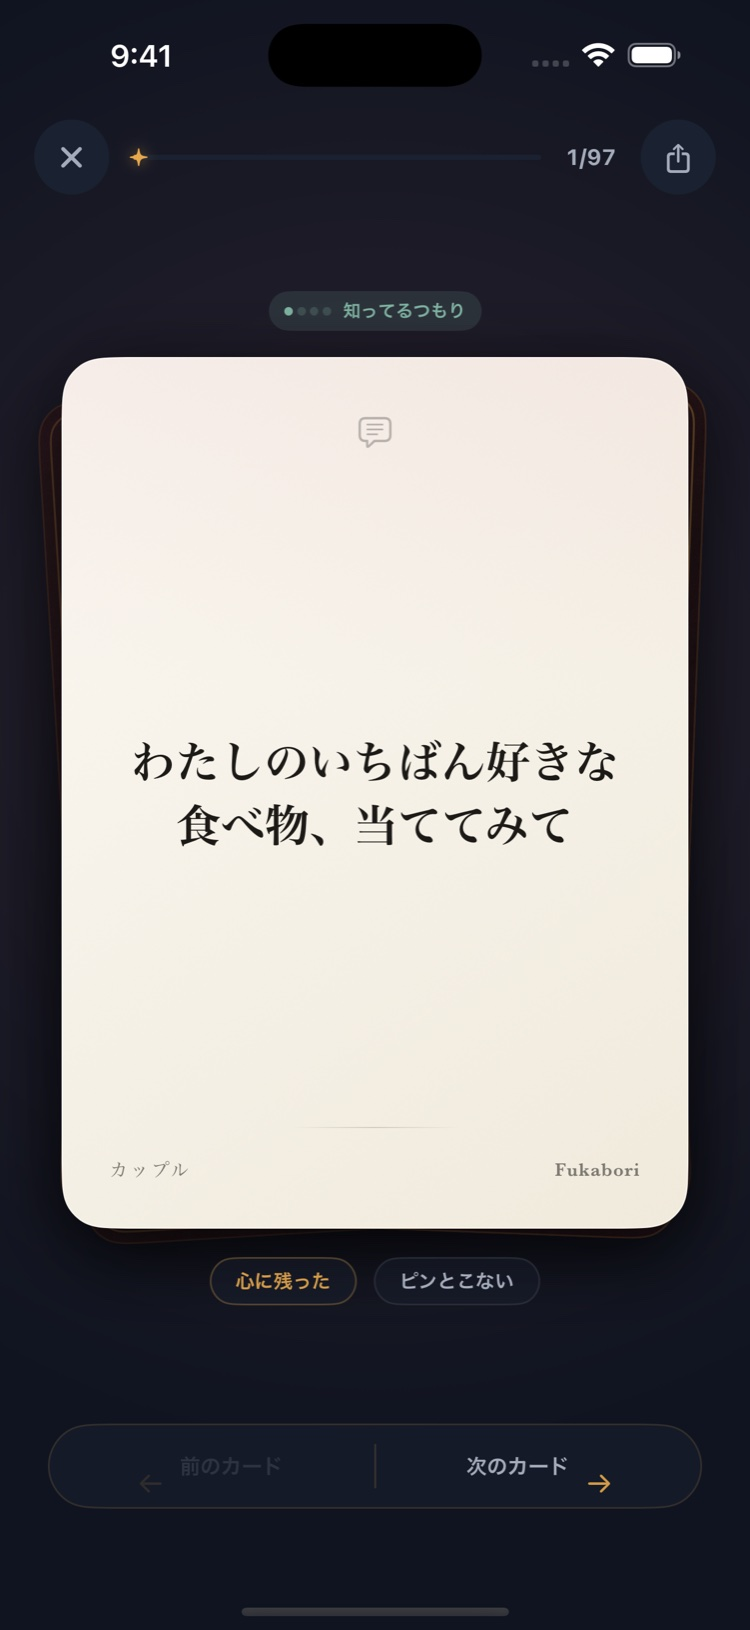
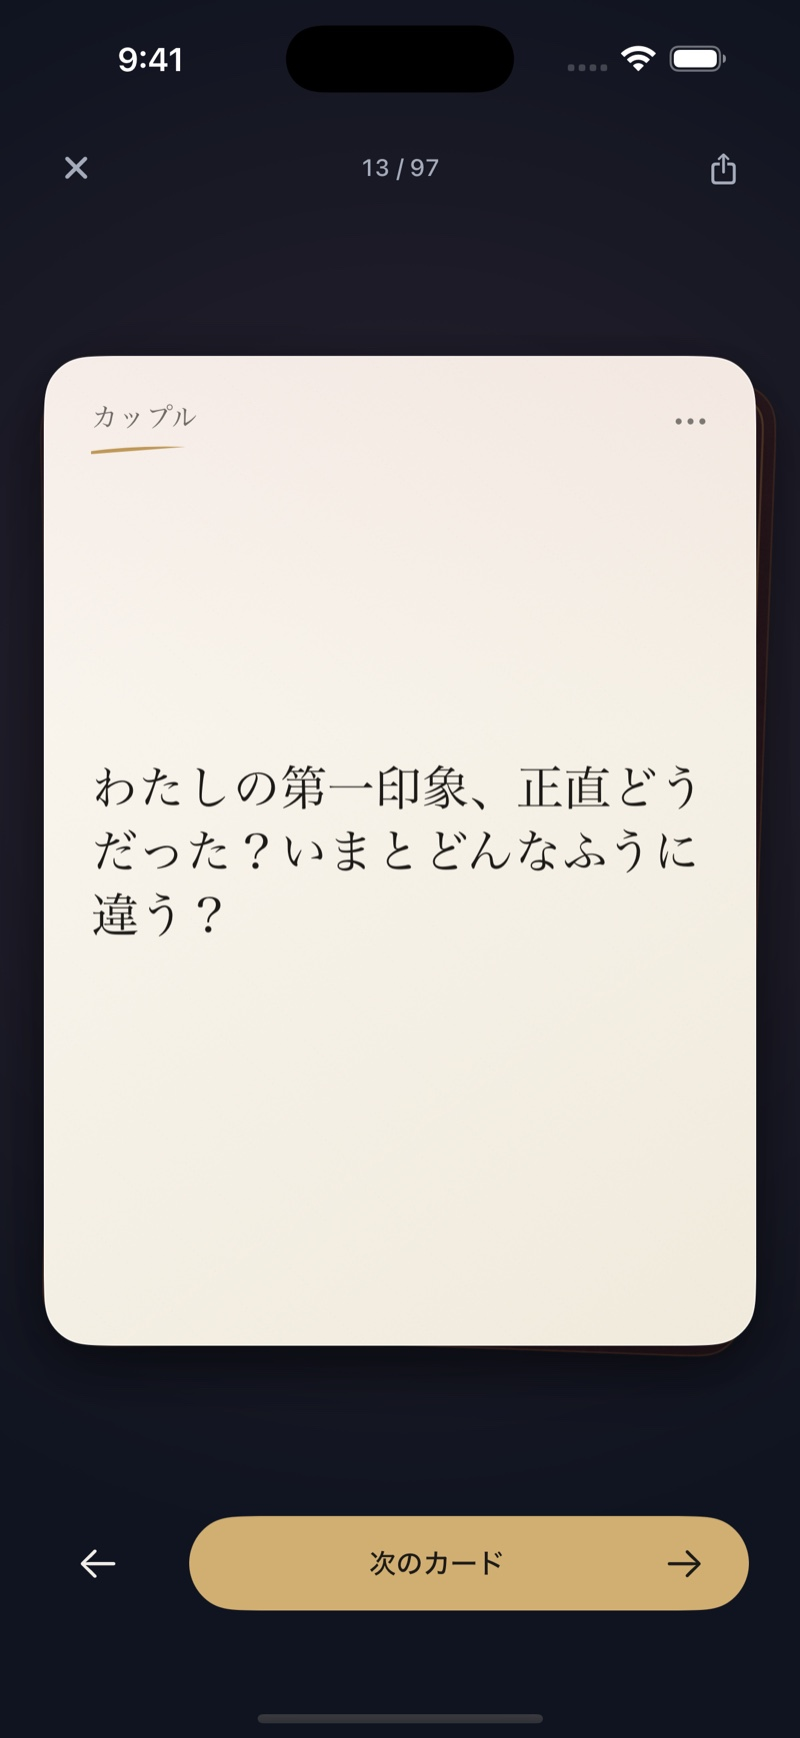
Align landing page cards with paper question UI (#9)

diff --git a/index.html b/index.html
@@ -44,10 +44,10 @@
 </script>
 </head>
 <body><a class="skip" href="#main">本文へ移動</a><div class="reading-progress" aria-hidden="true"></div><header class="nav"><a class="brand" href="#">fukabori<span>フカボリ</span></a><nav aria-label="メインメニュー"><a href="#journey">質問を見る</a><a href="#decks">デッキを選ぶ</a></nav><a class="store-link" href="https://apps.apple.com/jp/app/id6794950952" data-store-cta="nav">App Storeで入手 <span aria-hidden="true">↗</span></a></header>
-<main id="main"><section class="hero" id="hero"><div class="ambient" aria-hidden="true"></div><canvas id="universe" aria-hidden="true"></canvas><div class="hero-copy"><h1><span>いつもと違う話、</span><span><em>してみない？</em></span></h1><p class="lead">恋人と過ごす休日に、友達との集まりに。<br>何を話そうか迷ったら、カードを1枚。</p><a class="pill" href="#journey">どんな質問がある？ <span aria-hidden="true">↓</span></a></div><div class="hero-object"><div class="hero-stack" id="hero-stack"><img class="stack-card stack-one" src="img/deck/parents_v1.webp" alt="" width="480" height="720"><img class="stack-card stack-two" src="img/deck/couple_v1.webp" alt="" width="480" height="720"><button class="hero-flip" id="hero-flip" type="button" aria-label="カードをめくって質問を見る" aria-pressed="false"><span class="flipper"><span class="card-face face-back"><img src="img/cards/couple_back.webp" alt="カップルデッキのカード裏面" width="966" height="1344"></span><span class="card-face face-front"><span class="card-label">01 / カップル</span><span class="card-question">わたしのいちばん<br>好きな食べ物、<br>当ててみて</span><span class="card-sign">fukabori <span>☽</span></span></span></span></button></div><button class="preview-card" id="preview-card" type="button">カードをめくる <span aria-hidden="true">↻</span></button></div><div class="hero-bottom"><button id="motion-toggle" type="button" aria-pressed="false">動きを止める <span aria-hidden="true">Ⅱ</span></button></div></section>
+<main id="main"><section class="hero" id="hero"><div class="ambient" aria-hidden="true"></div><canvas id="universe" aria-hidden="true"></canvas><div class="hero-copy"><h1><span>いつもと違う話、</span><span><em>してみない？</em></span></h1><p class="lead">恋人と過ごす休日に、友達との集まりに。<br>何を話そうか迷ったら、カードを1枚。</p><a class="pill" href="#journey">どんな質問がある？ <span aria-hidden="true">↓</span></a></div><div class="hero-object"><div class="hero-stack" id="hero-stack"><img class="stack-card stack-one" src="img/deck/parents_v1.webp" alt="" width="480" height="720"><img class="stack-card stack-two" src="img/deck/couple_v1.webp" alt="" width="480" height="720"><button class="hero-flip" id="hero-flip" type="button" aria-label="カードをめくって質問を見る" aria-pressed="false"><span class="flipper"><span class="card-face face-back"><img src="img/cards/couple_back.webp" alt="カップルデッキのカード裏面" width="966" height="1344"></span><span class="card-face face-front"><span class="card-label">カップル</span><span class="card-question">わたしの第一印象、正直どうだった？いまとどんなふうに違う？</span></span></span></button></div><button class="preview-card" id="preview-card" type="button">カードをめくる <span aria-hidden="true">↻</span></button></div><div class="hero-bottom"><button id="motion-toggle" type="button" aria-pressed="false">動きを止める <span aria-hidden="true">Ⅱ</span></button></div></section>
 <section class="opening section"><h2 class="reveal-lines">よく会う相手にも、<br><span>聞いたことのない話がある。</span></h2><p>好きな食べ物。子どもの頃のこと。最近うれしかったこと。<br>自分では思いつかなかった質問から、<br>いつもと違う話をしてみませんか。</p></section>
 <section class="journey" id="journey" aria-label="3つの質問の例"><div class="journey-stage"><div class="journey-line" aria-hidden="true"></div><div class="chapter-copy"><article class="chapter active"><h2>まずは、<br><em>当てっこから。</em></h2><p>当たっても、外れても。<br>「なんでそれだと思った？」と聞くと、<br>そこからまた話が続きます。</p></article><article class="chapter"><h2>昔の話、<br><em>聞いたことある？</em></h2><p>どんな子だった？ 何に夢中だった？<br>いまの姿からは想像できない話も、<br>聞けるかもしれません。</p></article><article class="chapter"><h2>そういえば、<br><em>あのときね。</em></h2><p>うれしかったことや、助かったこと。<br>普段はわざわざ言わない話も、<br>質問に答えるつもりで。</p></article></div><div class="story-card-wrap"><div class="story-card" id="story-card"><span class="card-label" id="story-card-label">01 / 好きなもの</span><p class="card-question" id="story-question">わたしのいちばん好きな食べ物、当ててみて</p><span class="card-sign">fukabori <span>☽</span></span></div></div><div class="journey-bottom"><div class="chapter-controls" aria-label="会話の場面を選ぶ"><button type="button" data-chapter="0" aria-pressed="true"><span>好きなもの</span></button><button type="button" data-chapter="1" aria-pressed="false"><span>子どもの頃</span></button><button type="button" data-chapter="2" aria-pressed="false"><span>最近のこと</span></button></div></div></div></section>
 <section class="interlude section"><h2>答えにくい質問は、<br><em>パスしてOK。</em></h2><p>全部に答えなくても大丈夫。<br>話が盛り上がったら、次のカードはあとで。</p></section>
 <section class="collection section" id="decks"><div class="section-heading"><div><h2>誰と使うかで、<br>質問もいろいろ。</h2></div><p>恋人や友達、家族と話すときにも。<br>ひとりで考えを整理したいときにも。</p></div><div class="deck-selectors" role="group" aria-label="相手別の質問"><button type="button" class="deck-choice active" data-deck="couple_v1" aria-pressed="true"><span class="deck-visual"><img src="img/deck/couple_v1.webp" alt="" width="480" height="720" loading="lazy"></span><span class="deck-caption">恋人と<span class="choice-arrow" aria-hidden="true">↗</span></span></button><button type="button" class="deck-choice" data-deck="friends_v1" aria-pressed="false"><span class="deck-visual"><img src="img/deck/friends_v1.webp" alt="" width="480" height="720" loading="lazy"></span><span class="deck-caption">友達と<span class="choice-arrow" aria-hidden="true">↗</span></span></button><button type="button" class="deck-choice" data-deck="parents_v1" aria-pressed="false"><span class="deck-visual"><img src="img/deck/parents_v1.webp" alt="" width="480" height="720" loading="lazy"></span><span class="deck-caption">家族と<span class="choice-arrow" aria-hidden="true">↗</span></span></button><button type="button" class="deck-choice" data-deck="self_v1" aria-pressed="false"><span class="deck-visual"><img src="img/deck/self_v1.webp" alt="" width="480" height="720" loading="lazy"></span><span class="deck-caption">ひとりで<span class="choice-arrow" aria-hidden="true">↗</span></span></button></div><div class="question-sampler"><div><p class="eyebrow" id="sample-label">カップル / 01</p><p id="sample-question" aria-live="polite" aria-atomic="true">わたしのいちばん好きな食べ物、当ててみて</p></div><button type="button" id="next-question" aria-label="次の質問をめくる">次の質問 <span aria-hidden="true">↗</span></button></div></section>
-<section class="how section"><div class="how-intro"><h2>スマホひとつで、<br><em>すぐに遊べる。</em></h2><p>アカウント登録はいりません。<br>デッキを選んだら、そのまま始められます。</p></div><div class="phone-stage"><img src="img/app/screen_card.jpg" alt="フカボリの質問カード画面" width="800" height="1738" loading="lazy"></div><ol class="steps"><li><span>01</span><h3>デッキを選ぶ。</h3><p>相手と気分に合わせて。</p></li><li><span>02</span><h3>カードをめくる。</h3><p>出てきた質問を読んでみる。</p></li><li><span>03</span><h3>順番に答える。</h3><p>気になった答えは、もう少し聞いてみる。</p></li></ol></section>
+<section class="how section"><div class="how-intro"><h2>スマホひとつで、<br><em>すぐに遊べる。</em></h2><p>アカウント登録はいりません。<br>デッキを選んだら、そのまま始められます。</p></div><div class="phone-stage"><img src="img/app/screen_card.jpg?v=paper-20260927" alt="フカボリの質問カード画面" width="800" height="1738" loading="lazy"></div><ol class="steps"><li><span>01</span><h3>デッキを選ぶ。</h3><p>相手と気分に合わせて。</p></li><li><span>02</span><h3>カードをめくる。</h3><p>出てきた質問を読んでみる。</p></li><li><span>03</span><h3>順番に答える。</h3><p>気になった答えは、もう少し聞いてみる。</p></li></ol></section>
 <section class="closing section"><h2>Fukaboriを、<br><em>はじめよう。</em></h2><a class="pill solid" href="https://apps.apple.com/jp/app/id6794950952" data-store-cta="bottom">App Storeで入手 <span aria-hidden="true">↗</span></a><p>iPhone向け</p><span class="closing-brand" aria-hidden="true">fukabori</span></section></main><footer class="section"><a class="brand" href="#">fukabori</a><div><a href="legal/terms.html">利用規約</a><a href="legal/privacy.html">プライバシーポリシー</a><a href="mailto:shuuuya0616@gmail.com">お問い合わせ</a></div><small>© Fukabori</small></footer><script type="module" src="universe.js"></script></body></html>

diff --git a/night.css b/night.css
@@ -23,3 +23,11 @@ body.motion-paused{scroll-behavior:auto}
 .face-front{transform:rotateY(180deg) translateZ(1px)}
 
 @media(max-width:700px){.hero-flip .card-question{font-size:clamp(16px,4.6vw,18px);line-height:1.9}}
+
+/* Same ivory paper, quiet gold accent and uniform question type as the app. */
+.hero-flip .face-front{background:linear-gradient(145deg,#fbf8f2,#f0eadc);padding:26px;box-shadow:0 16px 36px #0005}
+.hero-flip .card-label{font-family:var(--serif);font-size:15px;color:#6d685f}
+.hero-flip .card-label:after{content:"";display:block;width:45px;height:3px;margin-top:9px;background:#be9757;border-radius:80% 20% 70% 30%;transform:rotate(-3deg)}
+.hero-flip .card-question{font:400 23px/1.65 var(--serif);text-align:left;margin:auto 0}
+.hero-flip .face-front:after{content:"";height:35px;flex:none}
+@media(max-width:700px){.hero-flip .face-front{padding:22px}.hero-flip .card-question{font-size:18px;line-height:1.65}.hero-flip .card-label{font-size:13px}}
